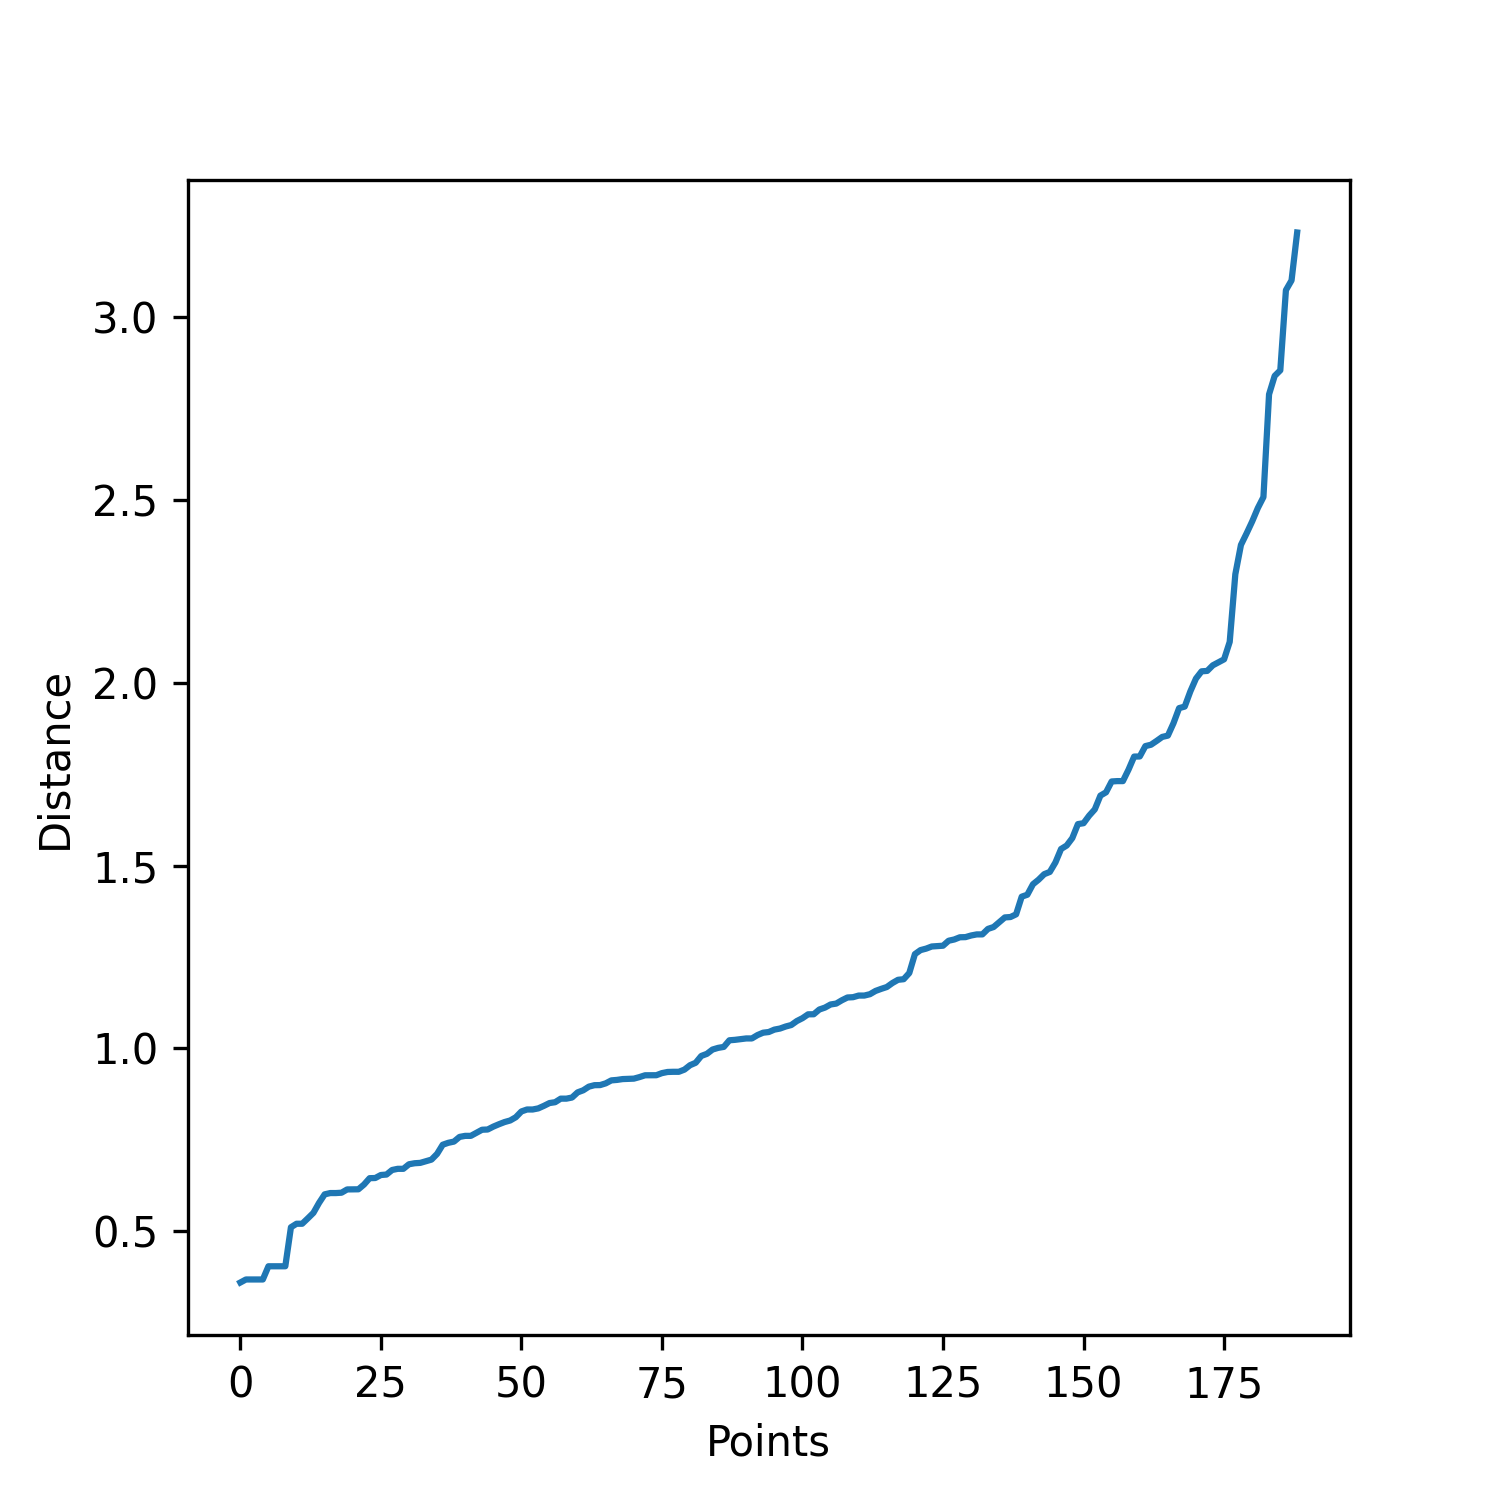
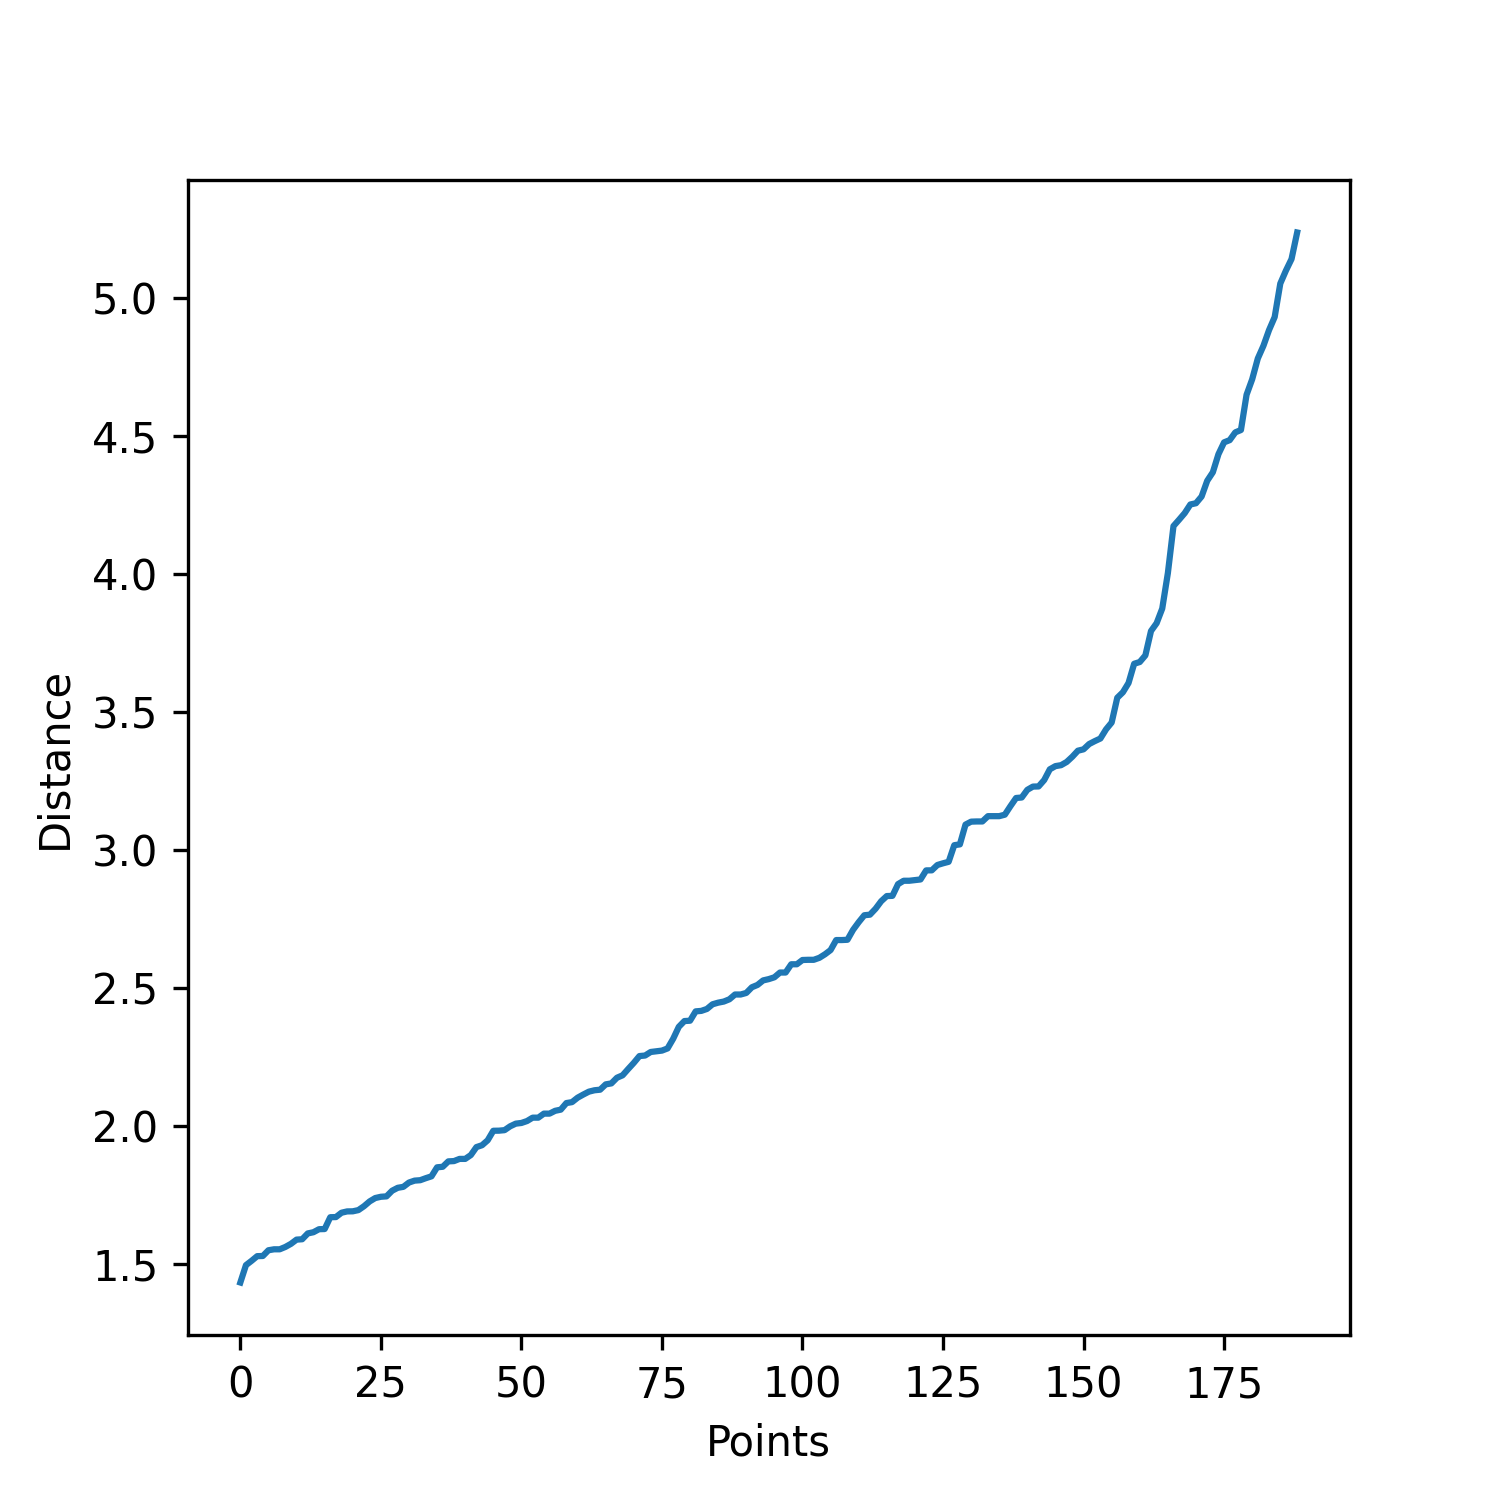
updated distance analysis

diff --git a/analyze_distance.py b/analyze_distance.py
@@ -9,7 +9,7 @@ files = [f'data/{x}' for x in os.listdir('data/')]
 for file in files:
     data = np.genfromtxt(file, delimiter=',')
     y, X = data[:, 0], data[:, 1:]
-    minNeigbors = X.shape[1]  # (Sander et al., 1998)
+    minNeigbors = 20
     nearest_neighbors = NearestNeighbors(n_neighbors=minNeigbors)
     # (Nadia Rahmah and Imas Sukaesih Sitanggang, 2016)
     neighbors = nearest_neighbors.fit(X)

diff --git a/dbscan.py b/dbscan.py
@@ -16,7 +16,7 @@ def dbscan_dfs(kdtree, X, eps, min_samples, curr, visited, labels, cluster):
     return
 
 
-def dbscan(X, eps=0.5, min_samples=5):
+def dbscan(X, eps, min_samples):
     rows = X.shape[0]
     visited = np.zeros(rows, dtype=np.bool)
     labels = np.zeros(rows)
